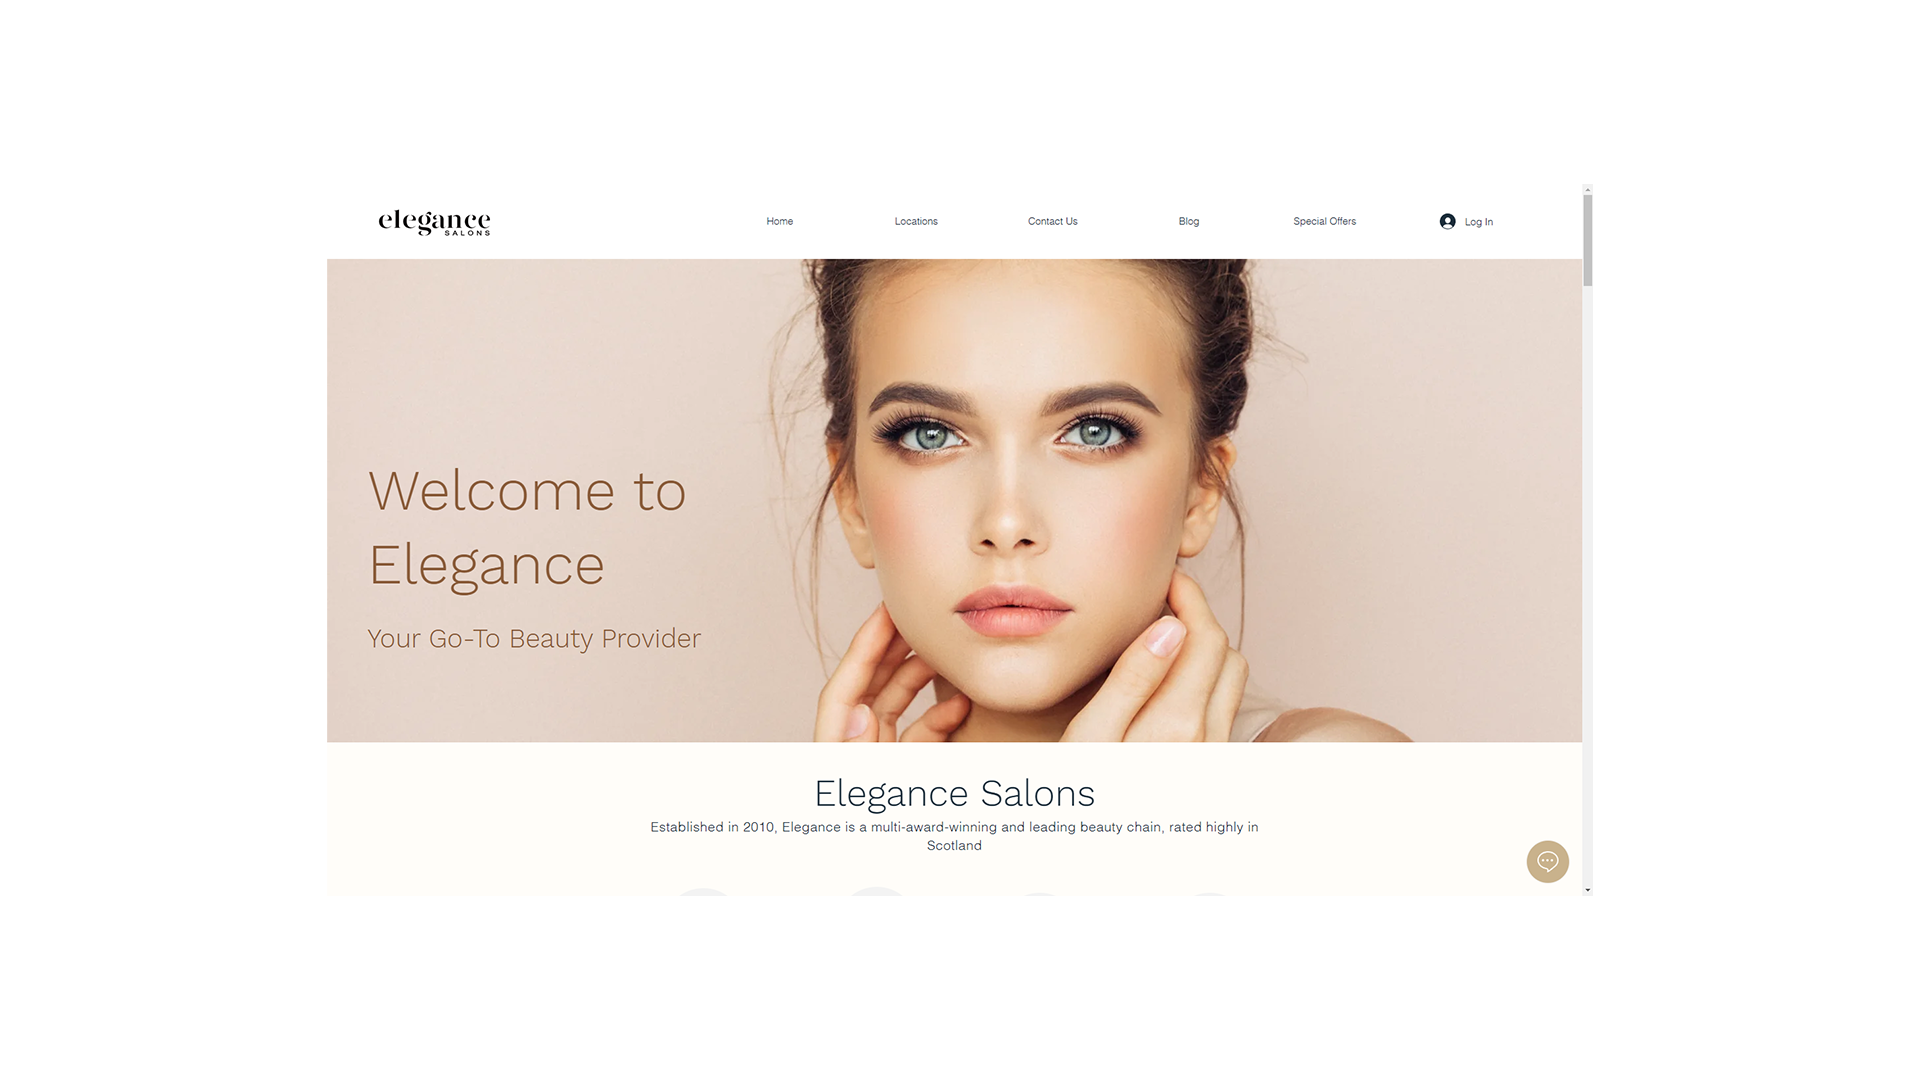
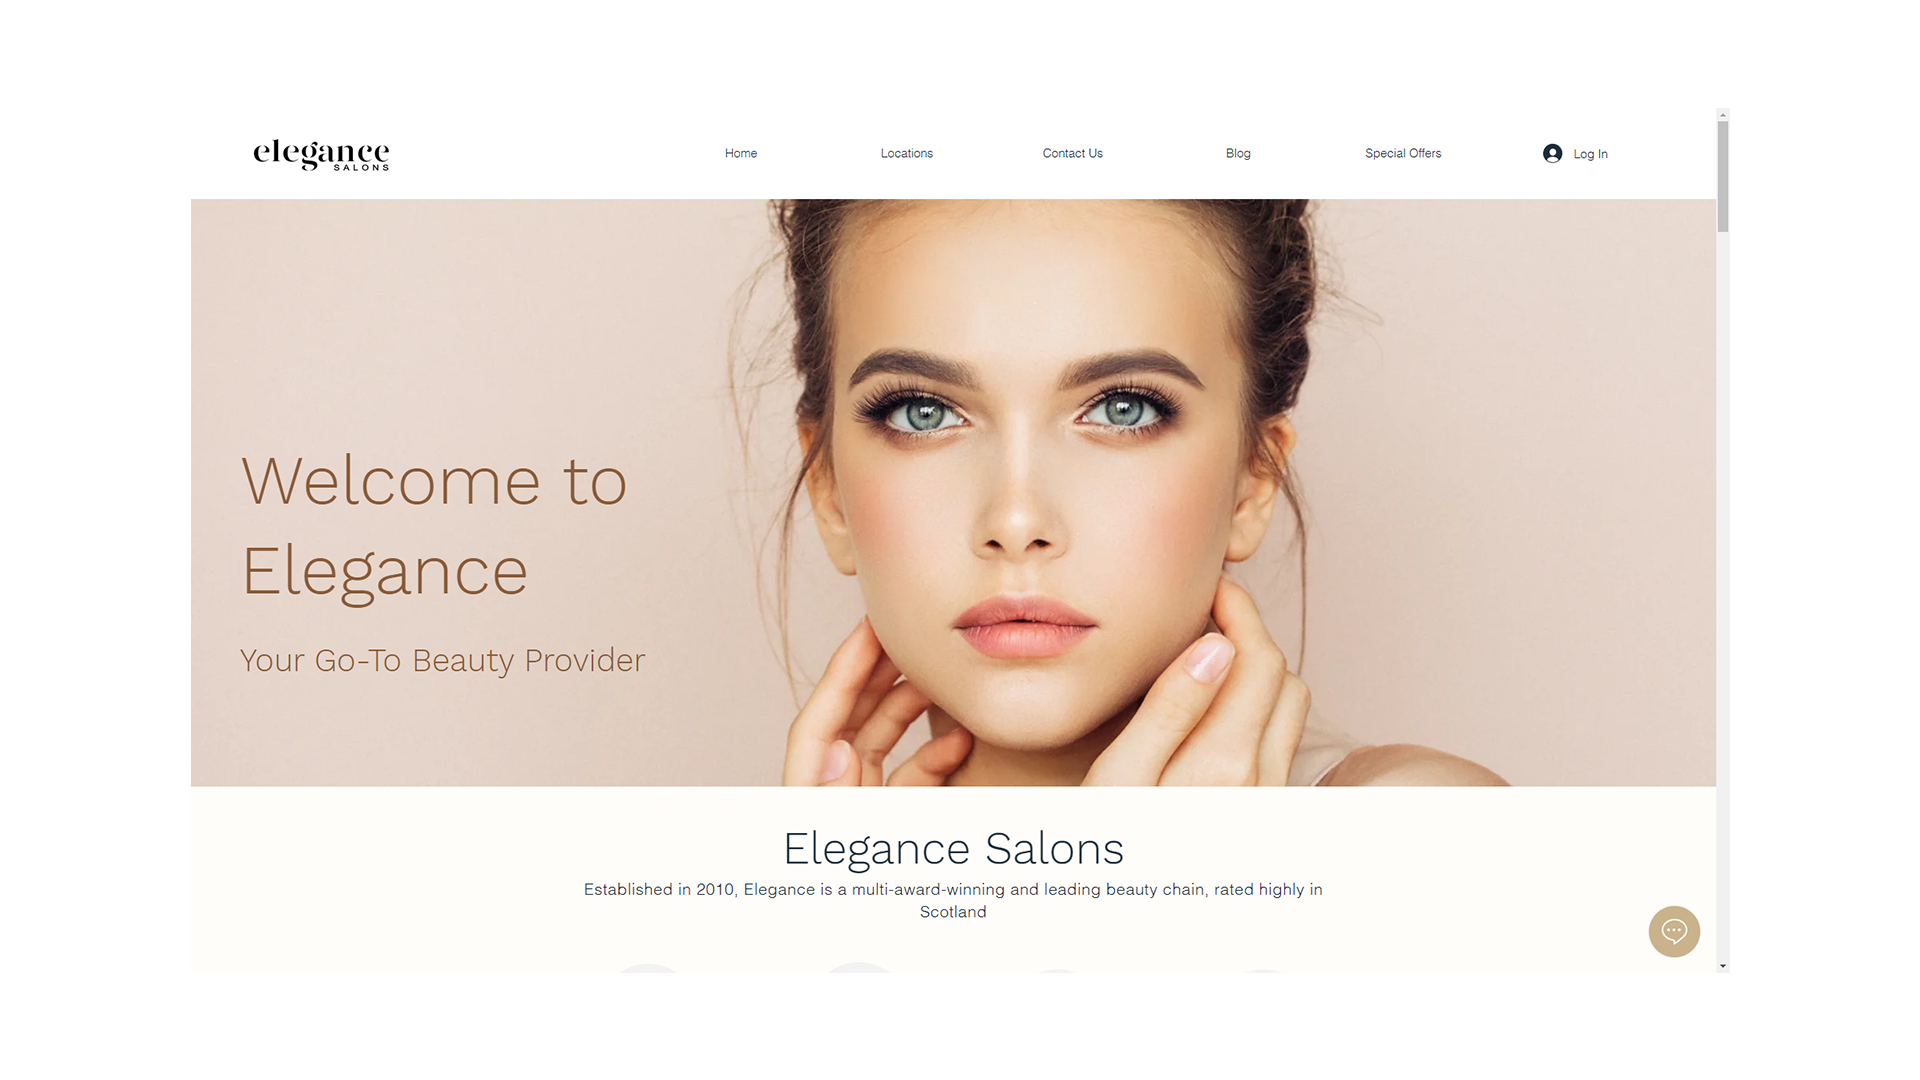
commit311020240607pm

diff --git a/resources/views/ui/showcase.blade.php b/resources/views/ui/showcase.blade.php
@@ -3,8 +3,10 @@
     <style>
         .centered-bottom {
             position: absolute;
-            bottom: 5%;
+            bottom: 12%;
             width: 100%;
+            background-color: black;
+            border-radius: 15px;
             left: 50%;
             transform: translateX(-50%);
         }
@@ -12,23 +14,29 @@
         .centered-bottom h5 {
             color: white;
         }
+
         .centered-bottom a {
             color: white;
+            text-align: center;
+        }
+
+        .slider .parallax-slider .swiper-slide .bg-img {
+            background-size: contain;
         }
     </style>
 @endsection
 @section('content')
     <!-- ==================== Start Slider ==================== -->
 
-    <header class="slider showcase-full">
+    <header class="slider showcase-full" style="background-color: black;">
         <div class="swiper-container parallax-slider">
             <div class="swiper-wrapper">
                 <div class="swiper-slide">
-                    <div class="bg-img valign" data-background="ui/img/portfolio/full/elegancesalons.jpg">
+                    <div class="bg-img valign" data-background="ui/img/portfolio/full/elegancesalons.png">
                         <div class="container">
                             <div class="row">
-                                <div class="col-lg-10 offset-lg-1 centered-bottom">
-                                    <h5>Elegance Salons, Uk</h5>
+                                <div class="col-lg-10 centered-bottom">
+                                    <h5>Client: Elegance Salons, Uk</h5>
                                     <a href="https://www.elegancesalons.co.uk/">Visit site</a>
                                 </div>
                             </div>
@@ -37,11 +45,12 @@
 
                 </div>
                 <div class="swiper-slide">
-                    <div class="bg-img valign" data-background="ui/img/portfolio/full/ledgerwell.jpg">
+                    <div class="bg-img valign" data-background="ui/img/portfolio/full/ledgerwell.png">
                         <div class="container">
                             <div class="row">
-                                <div class="col-lg-10 offset-lg-1">
-
+                                <div class="col-lg-10 centered-bottom">
+                                    <h5>Client: Ledgerwell, Dubai</h5>
+                                    <a href="https://ledgerwelluae.com/">Visit site</a>
                                 </div>
                             </div>
                         </div>
